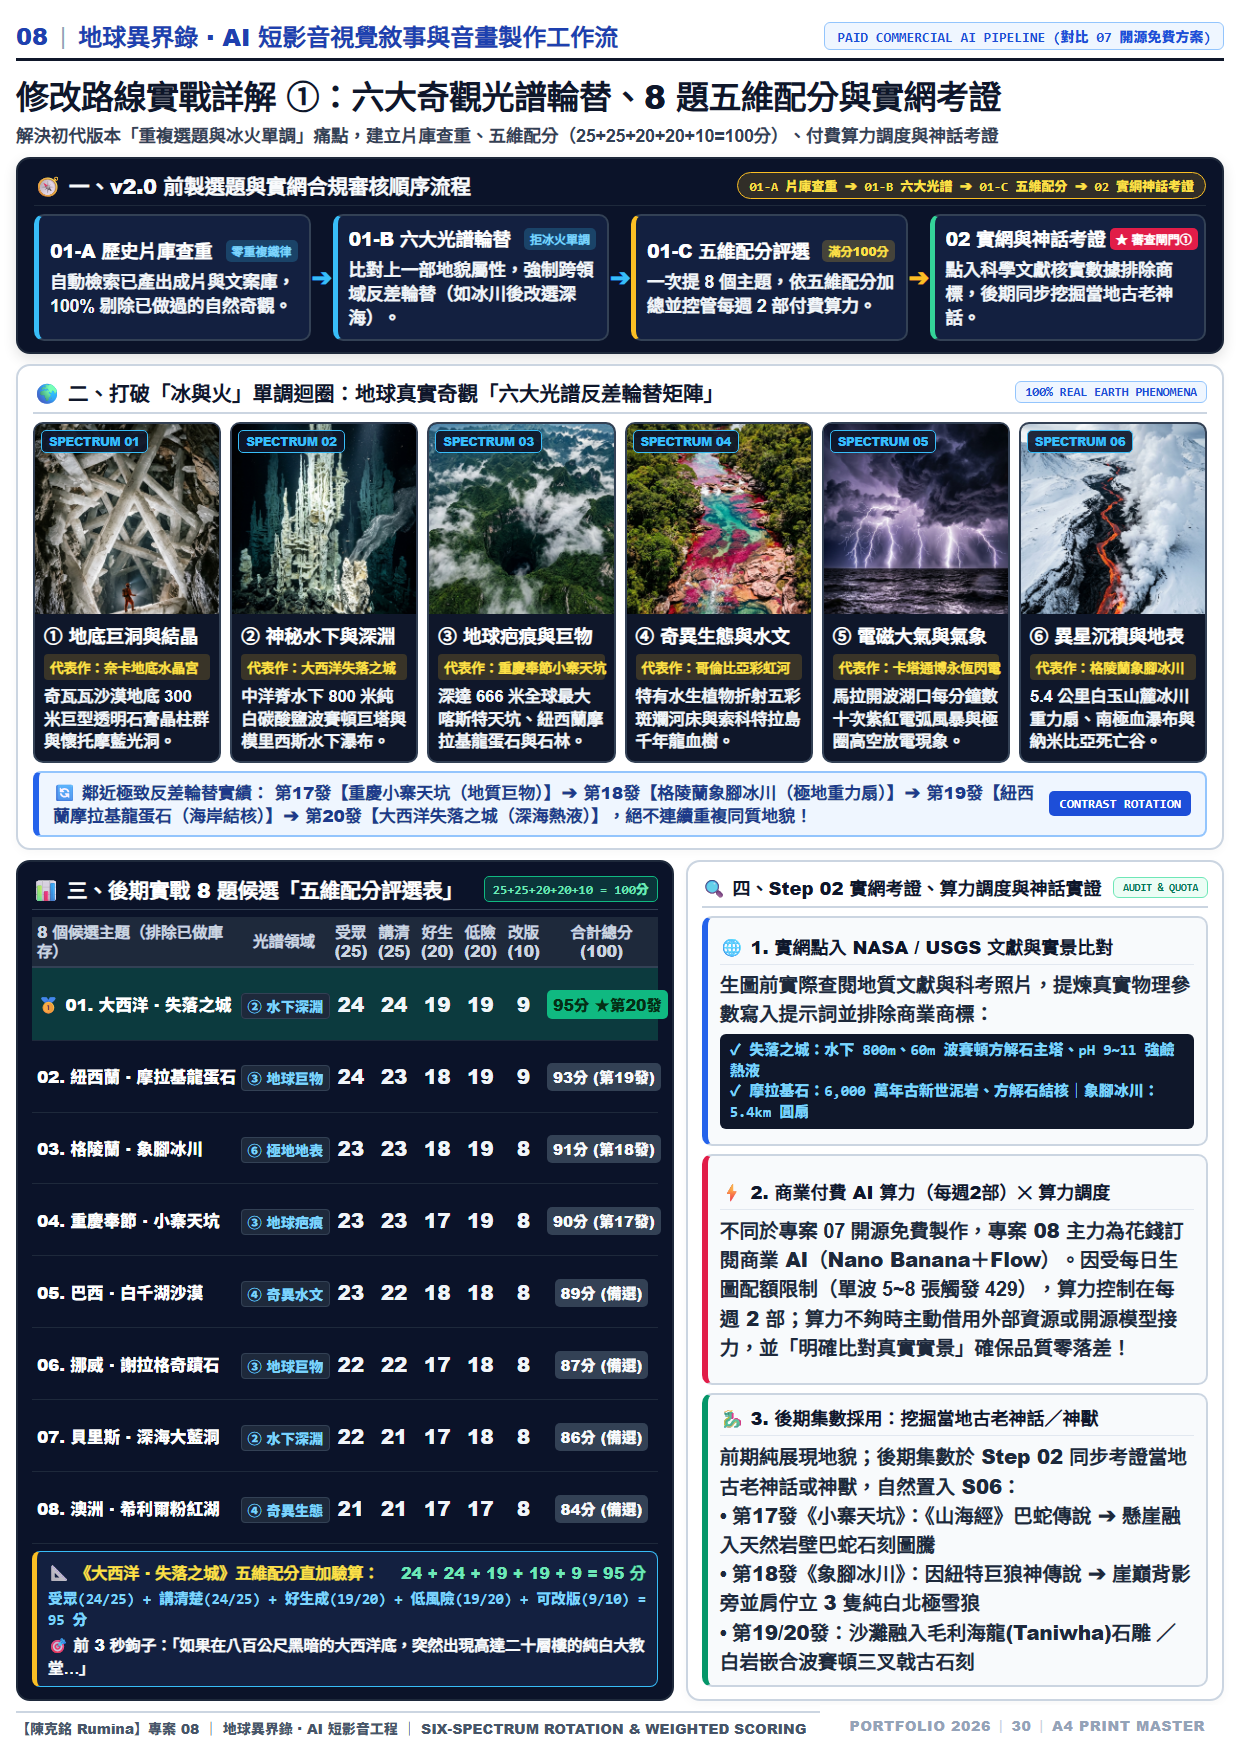
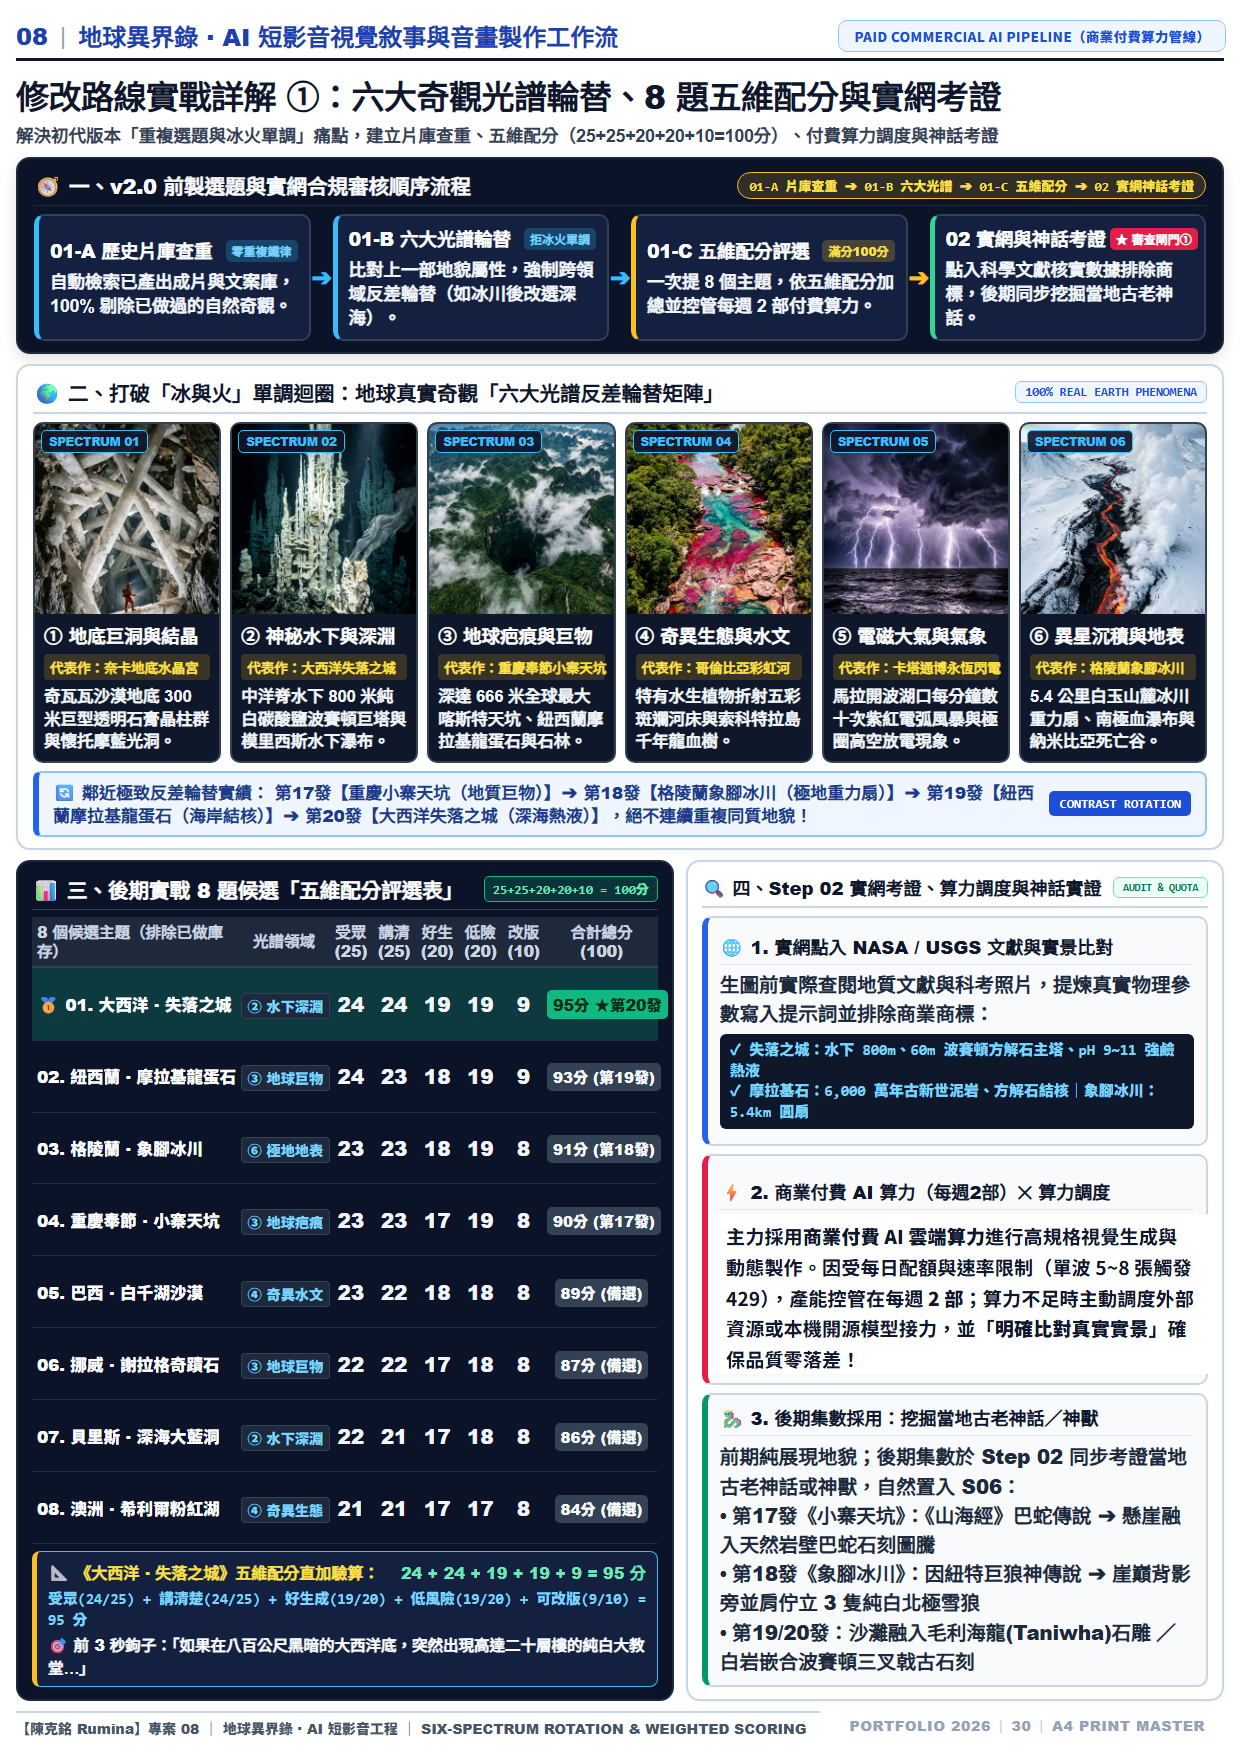
Update page_30 (08-02): remove project cross-refs and proprietary tool names

Changed region(s): [[0.5823, 0.6773, 0.9806, 0.8005], [0.6742, 0.0, 0.9806, 0.0308]]

diff --git a/portfolio.html b/portfolio.html
@@ -185,7 +185,7 @@
     { index: 27, title: "27. 開源 AIGC 工作流 ‧ LTX-2.5 動態影片二採放大與自動抓尾幀接力", file: "images/page_27.png?v=20261127" },
     { index: 28, title: "28. 開源 AIGC 工作流 ‧ 開源動態成片實戰案例、YouTube 預覽與人機配比", file: "images/page_28.png?v=20261127" },
     { index: 29, title: "29. 地球異界錄 ‧ AI 短影音八步驟標準工作流 (v1.0 → v2.0 實戰演進)", file: "images/page_29.png?v=20261127" },
-    { index: 30, title: "30. 地球異界錄 ‧ 六大奇觀光譜輪替、五維配分評選與實網考證", file: "images/page_30.png?v=20261127" },
+    { index: 30, title: "30. 地球異界錄 ‧ 六大奇觀光譜輪替、五維配分評選與實網考證", file: "images/page_30.png?v=20261127v10" },
     { index: 31, title: "31. 地球異界錄 ‧ 60 秒六鏡導演分鏡設計與 82pt 單行字幕規格", file: "images/page_31.png?v=20261127" },
     { index: 32, title: "32. 地球異界錄 ‧ 字幕演進實證、動態校正與 48kHz 側鏈混音", file: "images/page_32.png?v=20261127" },
     { index: 33, title: "33. 地球異界錄 ‧ 紀錄片旁白敘事、原創配樂與 FIFO 一鍵上傳系統", file: "images/page_33.png?v=20261127v3" },
